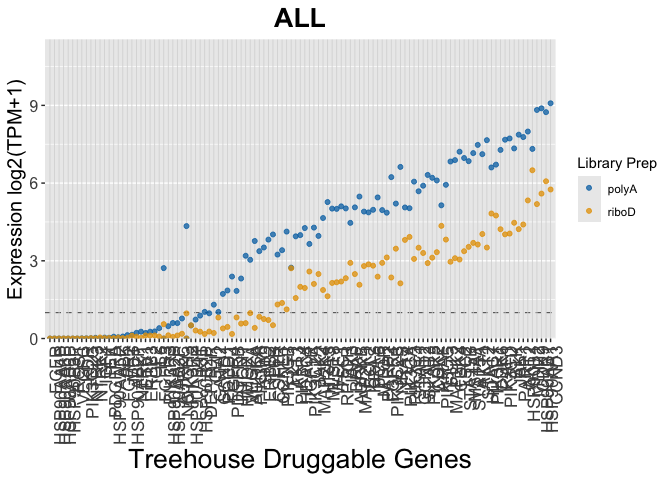
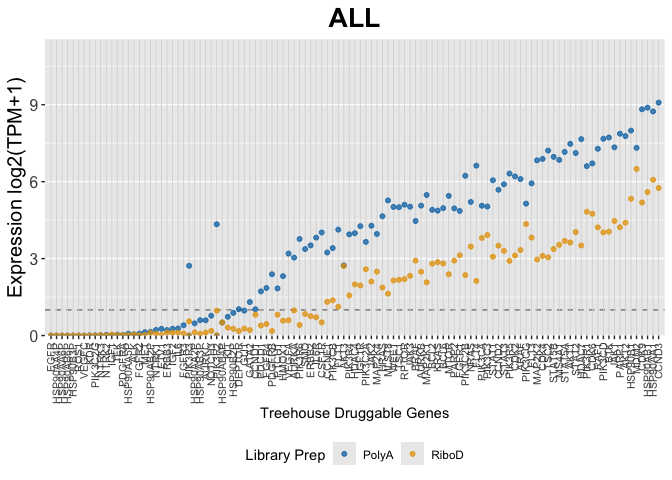
Added FigS7 to Fig1H script
Fig1H shows SS, FigS7 shows the rest of the diseases

diff --git a/Fig_1/Fig1H/Fig1H.md b/Fig_1/Fig1H/Fig1H.md
@@ -21,6 +21,22 @@ library(tidyverse)
     ℹ Use the conflicted package (<http://conflicted.r-lib.org/>) to force all conflicts to become errors
 
 ``` r
+library(patchwork)
+library(cowplot)
+```
+
+
+    Attaching package: 'cowplot'
+
+    The following object is masked from 'package:patchwork':
+
+        align_plots
+
+    The following object is masked from 'package:lubridate':
+
+        stamp
+
+``` r
 # sample ID files
 # polyA
 SS_polyA_list <- read_tsv("../../input_data/sample_selection/SS_polyA_list.tsv")
@@ -387,62 +403,62 @@ Applying gene medians function
 ``` r
 aRMS_polyA_medians <- compute_gene_medians_polyA(aRMS_polyA_expr) %>%
   pivot_longer(-Gene, values_to = "Expression") %>%
-  mutate(Disease = "aRMS", Compendia = "polyA") %>%
+  mutate(Disease = "aRMS", Compendia = "PolyA") %>%
   convert_to_hugo()
 
 aRMS_riboD_medians <- compute_gene_medians_riboD(aRMS_riboD_expr) %>%
   pivot_longer(-Gene, values_to = "Expression") %>%
-  mutate(Disease = "aRMS", Compendia = "riboD") %>%
+  mutate(Disease = "aRMS", Compendia = "RiboD") %>%
   convert_to_hugo()
 
 SS_polyA_medians <- compute_gene_medians_polyA(SS_polyA_expr) %>%
   pivot_longer(-Gene, values_to = "Expression") %>%
-  mutate(Disease = "SS", Compendia = "polyA") %>%
+  mutate(Disease = "SS", Compendia = "PolyA") %>%
   convert_to_hugo()
 
 SS_riboD_medians <- compute_gene_medians_riboD(SS_riboD_expr) %>%
   pivot_longer(-Gene, values_to = "Expression") %>%
-  mutate(Disease = "SS", Compendia = "riboD") %>%
+  mutate(Disease = "SS", Compendia = "RiboD") %>%
   convert_to_hugo()
 
 WT_polyA_medians <- compute_gene_medians_polyA(WT_polyA_expr) %>%
   pivot_longer(-Gene, values_to = "Expression") %>%
-  mutate(Disease = "WT", Compendia = "polyA") %>%
+  mutate(Disease = "WT", Compendia = "PolyA") %>%
   convert_to_hugo()
 
 WT_riboD_medians <- compute_gene_medians_riboD(WT_riboD_expr) %>%
   pivot_longer(-Gene, values_to = "Expression") %>%
-  mutate(Disease = "WT", Compendia = "riboD") %>%
+  mutate(Disease = "WT", Compendia = "RiboD") %>%
   convert_to_hugo()
 
 NB_polyA_medians <- compute_gene_medians_polyA(NB_polyA_expr) %>%
   pivot_longer(-Gene, values_to = "Expression") %>%
-  mutate(Disease = "NB", Compendia = "polyA") %>%
+  mutate(Disease = "NB", Compendia = "PolyA") %>%
   convert_to_hugo()
 
 NB_riboD_medians <- compute_gene_medians_riboD(NB_riboD_expr) %>%
   pivot_longer(-Gene, values_to = "Expression") %>%
-  mutate(Disease = "NB", Compendia = "riboD") %>%
+  mutate(Disease = "NB", Compendia = "RiboD") %>%
   convert_to_hugo()
 
 ALL_polyA_medians <- compute_gene_medians_polyA(ALL_polyA_expr) %>%
   pivot_longer(-Gene, values_to = "Expression") %>%
-  mutate(Disease = "ALL", Compendia = "polyA") %>%
+  mutate(Disease = "ALL", Compendia = "PolyA") %>%
   convert_to_hugo()
 
 ALL_riboD_medians <- compute_gene_medians_riboD(ALL_riboD_expr) %>%
   pivot_longer(-Gene, values_to = "Expression") %>%
-  mutate(Disease = "ALL", Compendia = "riboD") %>%
+  mutate(Disease = "ALL", Compendia = "RiboD") %>%
   convert_to_hugo()
 
 AML_polyA_medians <- compute_gene_medians_polyA(AML_polyA_expr) %>%
   pivot_longer(-Gene, values_to = "Expression") %>%
-  mutate(Disease = "AML", Compendia = "polyA") %>%
+  mutate(Disease = "AML", Compendia = "PolyA") %>%
   convert_to_hugo()
 
 AML_riboD_medians <- compute_gene_medians_riboD(AML_riboD_expr) %>%
   pivot_longer(-Gene, values_to = "Expression") %>%
-  mutate(Disease = "AML", Compendia = "riboD") %>%
+  mutate(Disease = "AML", Compendia = "RiboD") %>%
   convert_to_hugo()
 ```
 
@@ -491,8 +507,8 @@ Define palette
 # Define consistent color-blind–safe palette
 scale_color_compendia <- function() {
   scale_color_manual(values = c(
-    "riboD" = "#E69F00",  # yellow
-    "polyA" = "#0072B2"   # blue
+    "RiboD" = "#E69F00",  # yellow
+    "PolyA" = "#0072B2"   # blue
   ))
 }
 ```
@@ -514,7 +530,6 @@ df <- combined_medians_drug %>%
                          arrange(median_expr) %>% 
                          pull(Gene)))
 
-
   ggplot(df, aes(x = Gene, y = Expression, color = Compendia)) +
     geom_hline(yintercept = 1, linetype = "dashed", color = "grey40", linewidth = 0.4) +
     # 1. vertical lines for each gene 
@@ -531,17 +546,18 @@ df <- combined_medians_drug %>%
       color = "Library Prep"
     ) +
     theme(
-      axis.text.x = element_text(angle = 90, hjust = 1, size = 13),
+      # axis.text.x = element_blank(),
+      # axis.title.x = element_blank(), 
+      # axis.ticks.x = element_blank(),
+      axis.text.x = element_text(angle = 90, hjust = 1, vjust = 0.5, size = 8),
       panel.grid.major.x = element_blank(),
-      axis.title.x = element_text(angle = 0, hjust = 0.5, size = 20), 
       axis.text.y = element_text(angle = 0, hjust = 1, size = 12),
       axis.title.y = element_text(angle = 90, hjust = 0.5, size = 15), 
-      plot.title = element_text(hjust = 0.5, face = "bold", size = 20)
+      plot.title = element_text(hjust = 0.5, face = "bold", size = 20),
+      legend.position = "bottom"
     )
 })
-```
 
-``` r
 # Assign names for easy access
 names(druggable_plots) <- unique(combined_medians_drug$Disease)
 
@@ -581,6 +597,47 @@ druggable_plots
 
 ![](Fig1H_files/figure-commonmark/Fig1H-6.png)
 
+## Fig S7
+
+``` r
+diseases_to_plot <- names(druggable_plots)[names(druggable_plots) != "SS"]
+n <- length(diseases_to_plot)
+
+druggable_plots_subset <- imap(druggable_plots[diseases_to_plot], function(p, name) {
+  if (name != diseases_to_plot[n]) {
+    # hide x-axis on all panels except the last
+    p + theme(
+      axis.text.x = element_blank(),
+      axis.title.x = element_blank(),
+      axis.ticks.x = element_blank()
+    )
+  } else {
+    # show x-axis only on the last panel
+    p + theme(
+      axis.text.x = element_text(angle = 90, hjust = 1, size = 8),
+      axis.title.x = element_text(size = 12)
+    )
+  }
+})
+
+combined_figureS7 <- wrap_plots(druggable_plots_subset, ncol = 1) +
+  plot_layout(guides = "collect", axis_titles = "collect", axes = "collect") +
+  plot_annotation(
+    theme = theme(legend.position = "bottom")
+  ) &
+  theme(
+    plot.margin = margin(t = 2, b = 2, l = 5, r = 5),
+    plot.title = element_text(hjust = 0.5, face = "bold", size = 14)
+  )
+
+combined_figureS7
+```
+
+    Warning: Removed 1 row containing missing values or values outside the scale range
+    (`geom_point()`).
+
+![](Fig1H_files/figure-commonmark/FigS7-1.png)
+
 ``` r
 sessioninfo::session_info()
 ```
@@ -604,6 +661,7 @@ sessioninfo::session_info()
      P bit            4.6.0   2025-03-06 [?] RSPM
      P bit64          4.8.0   2026-04-21 [?] RSPM
      P cli            3.6.5   2025-04-23 [?] RSPM
+     P cowplot      * 1.2.0   2025-07-07 [?] RSPM
      P crayon         1.5.3   2024-06-20 [?] RSPM
      P digest         0.6.37  2024-08-19 [?] RSPM
      P dplyr        * 1.2.1   2026-04-03 [?] RSPM
@@ -623,6 +681,7 @@ sessioninfo::session_info()
      P lifecycle      1.0.5   2026-01-08 [?] RSPM
      P lubridate    * 1.9.5   2026-02-04 [?] RSPM
      P magrittr       2.0.5   2026-04-04 [?] RSPM
+     P patchwork    * 1.3.2   2025-08-25 [?] RSPM
      P pillar         1.11.1  2025-09-17 [?] RSPM
      P pkgconfig      2.0.3   2019-09-22 [?] RSPM
      P purrr        * 1.2.2   2026-04-10 [?] RSPM
